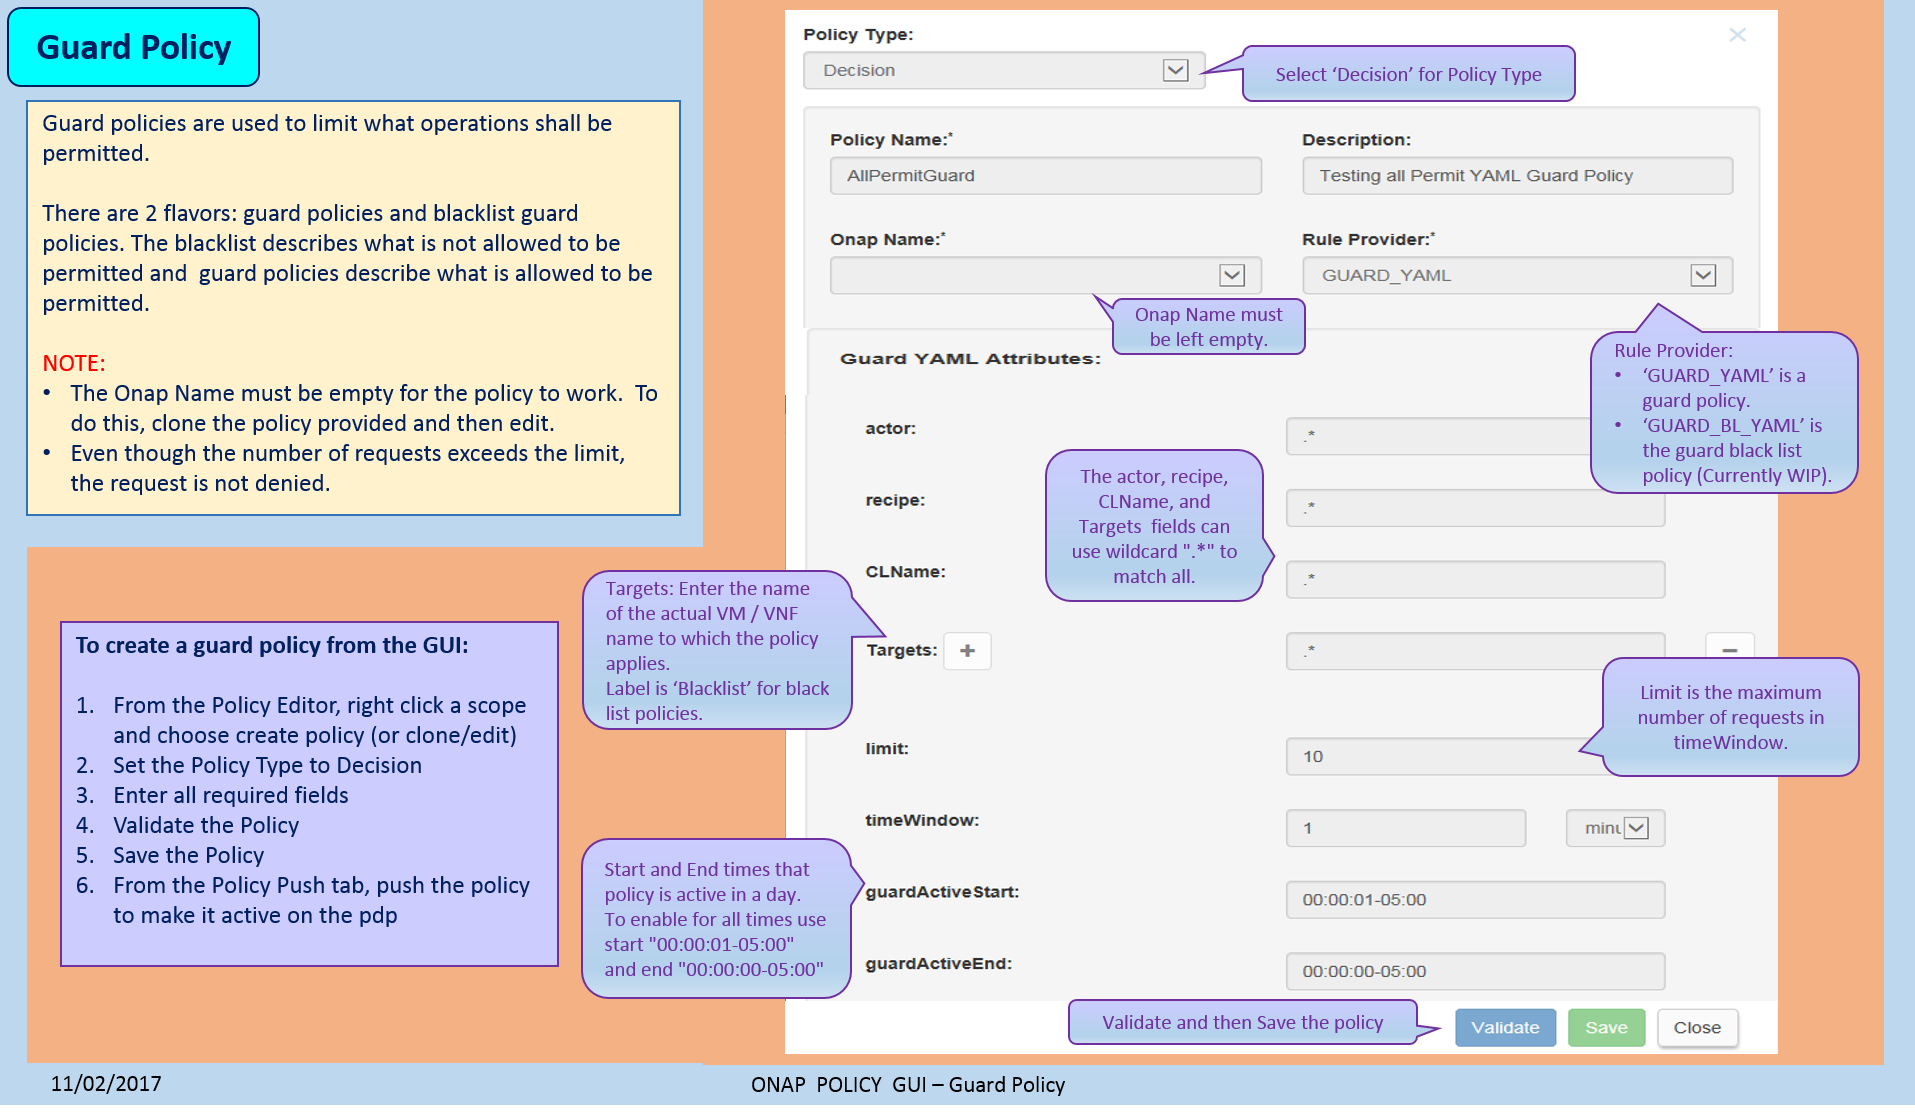
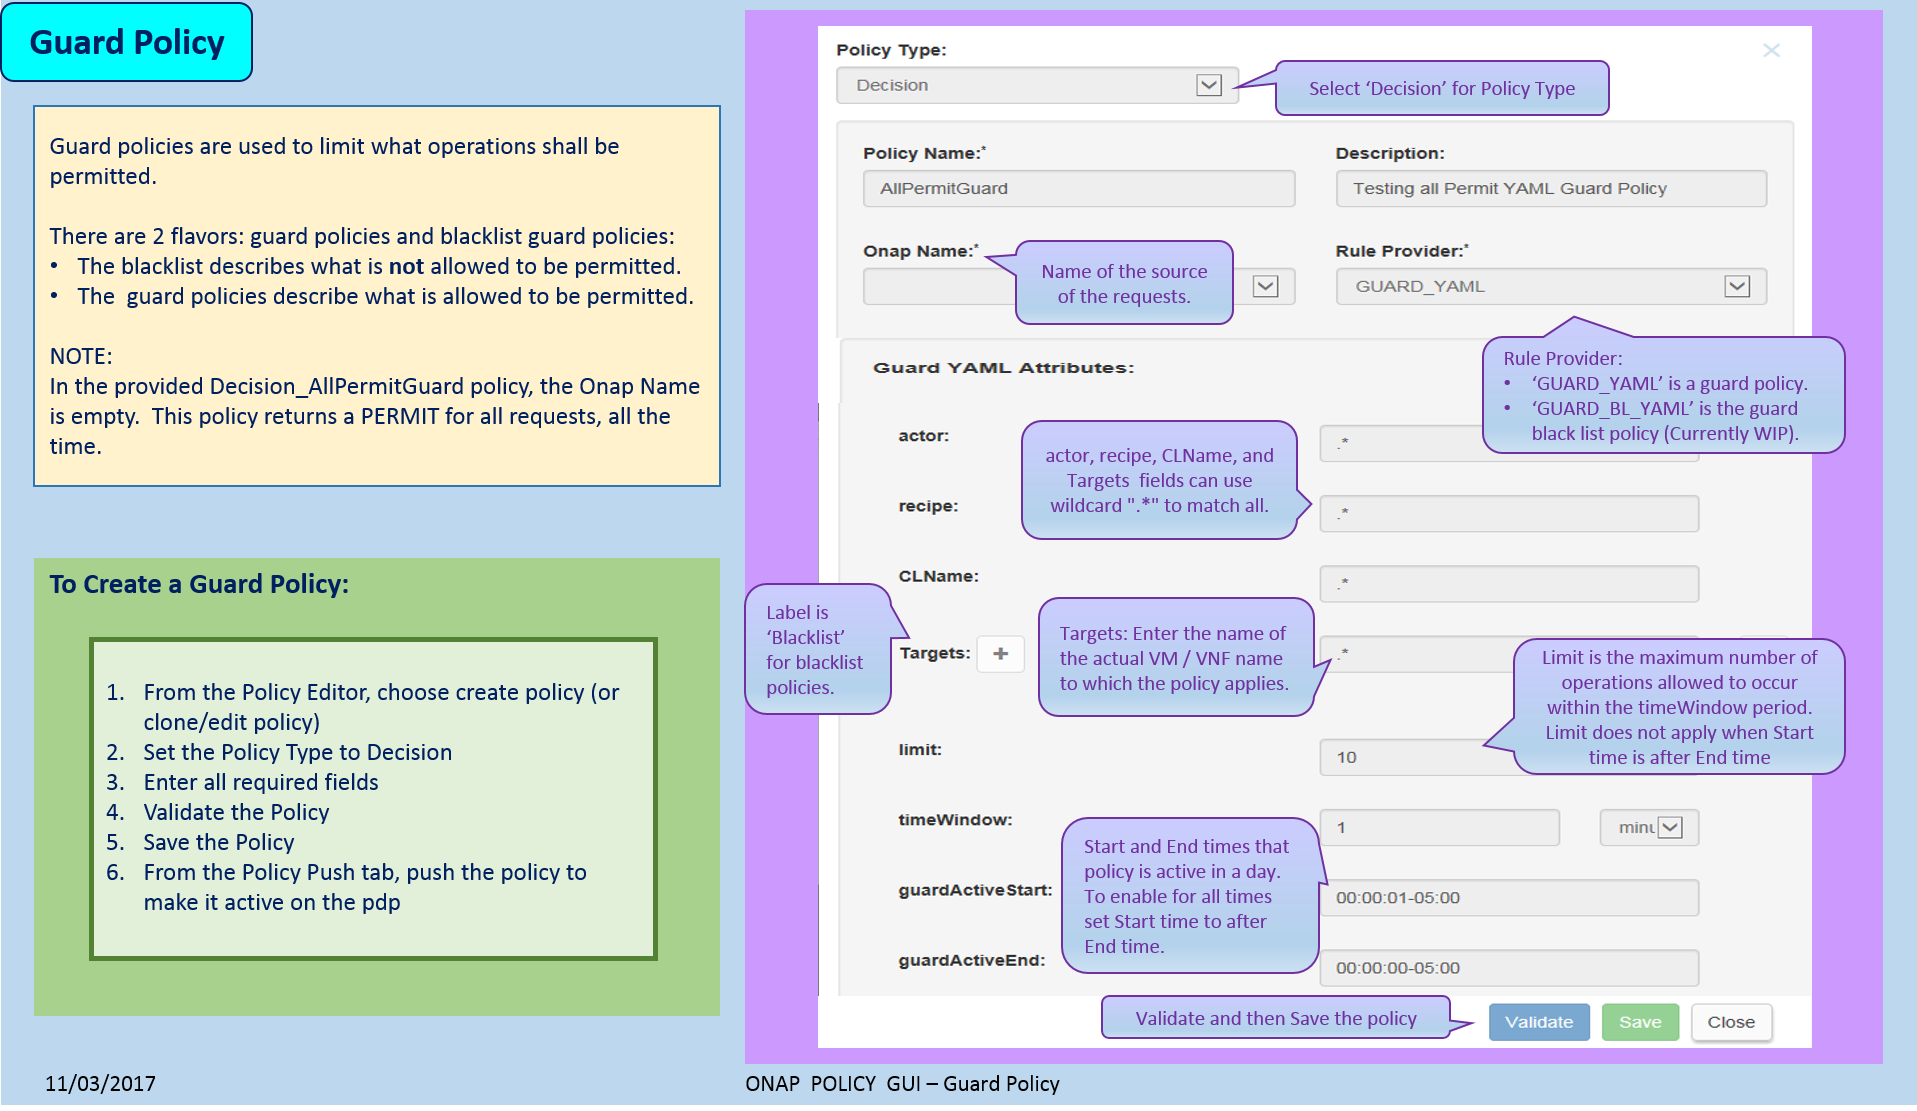
Updated guard policy documentation
Updated guard policy documentation
-------------------------------------------------------------

Issue-Id: POLICY-335

diff --git a/docs/platform/guardpolicy.rst b/docs/platform/guardpolicy.rst
@@ -13,7 +13,9 @@ Background
 
 Guard policies are used to limit what operations shall be permitted. These policies are specified in the Policy GUI or restful API and either return "PERMIT" or "DENY" on request.
 
-There are 2 types of policies, guard policies and blacklist guard policies. The blacklist describes what is not allowed to be permitted and guard policies describe what is allowed to be permitted. Note: as of 1802 release, Policy PDP behaves as a PERMIT overrides fashion so if any policy permits, it will override any denies.
+There are 2 types of policies, guard policies and blacklist guard policies. The blacklist describes what is not allowed to be permitted and guard policies describe what is allowed to be permitted.  The Policy PDP behaves in a PERMIT overrides fashion, that is,  if any policy permits, it will override any denies.
+
+.. note:: *Limit Functionality*: The determination to deny a request because it has exceeded the limit is based on the number of entries in the **database**.  
 
 Creating Guard Policies
 ^^^^^^^^^^^^^^^^^^^^^^^
@@ -27,16 +29,13 @@ The GUARD policy can be created from the POLICY GUI as shown below.
 
 .. image:: PolicyGUI_GuardPolicy.png
 
-.. note::  The Onap Name must be empty for the policy to work.  To accomplish this,  instead of creating a new policy, **clone** the provided policy first and then **edit** it.
-
-.. warning::  The request does not get denied, even though the number of requests exceeds the limit.
-
 
 API Method
 ----------
 
-Use PUT /createPolicy to create a policy.  
-The request should be in the following form for regular guard policy:
+To create the policy, use the PUT /createPolicy API. This request uses Basic Access Authentication. 
+
+The request should be in the following form for the regular guard policy:
 
 .. code-block:: json
    :caption: Regular Guard Policy Creation
@@ -119,7 +118,7 @@ The guard_request.json should be in the form of the following:
       "onapName": "PDPD"
     }
 
-A response containing a "PERMIT" or "DENY" in uppercase is returned as follows:
+A response containing a “PERMIT” or “DENY” in uppercase is returned as follows:
 
 .. code-block:: json
    :caption: Response
